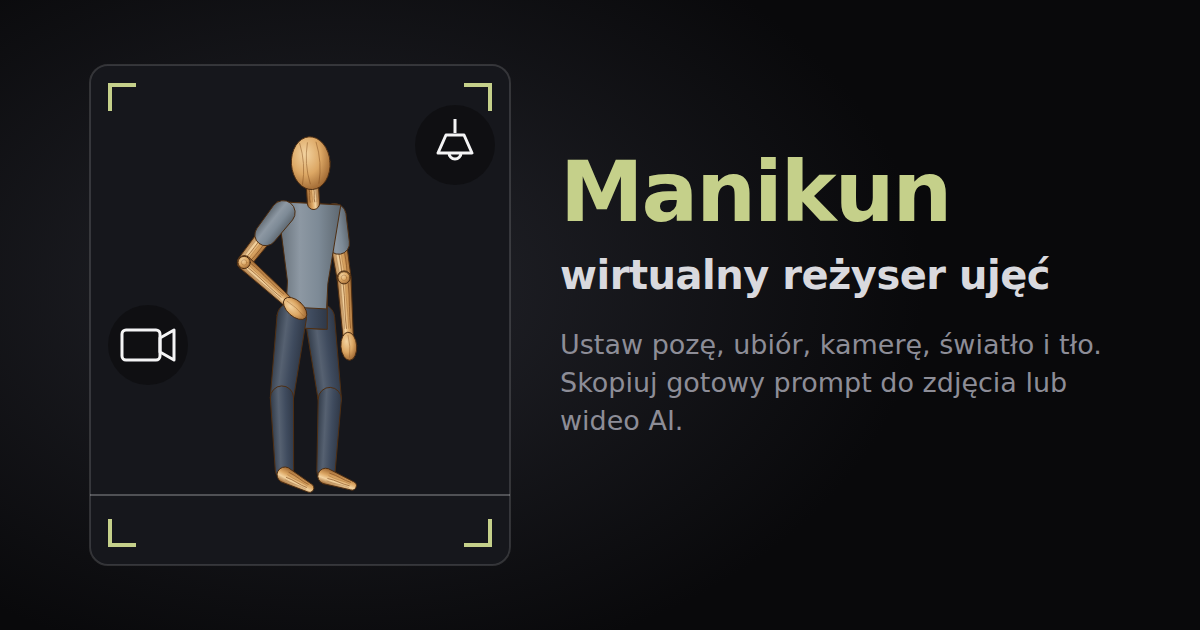
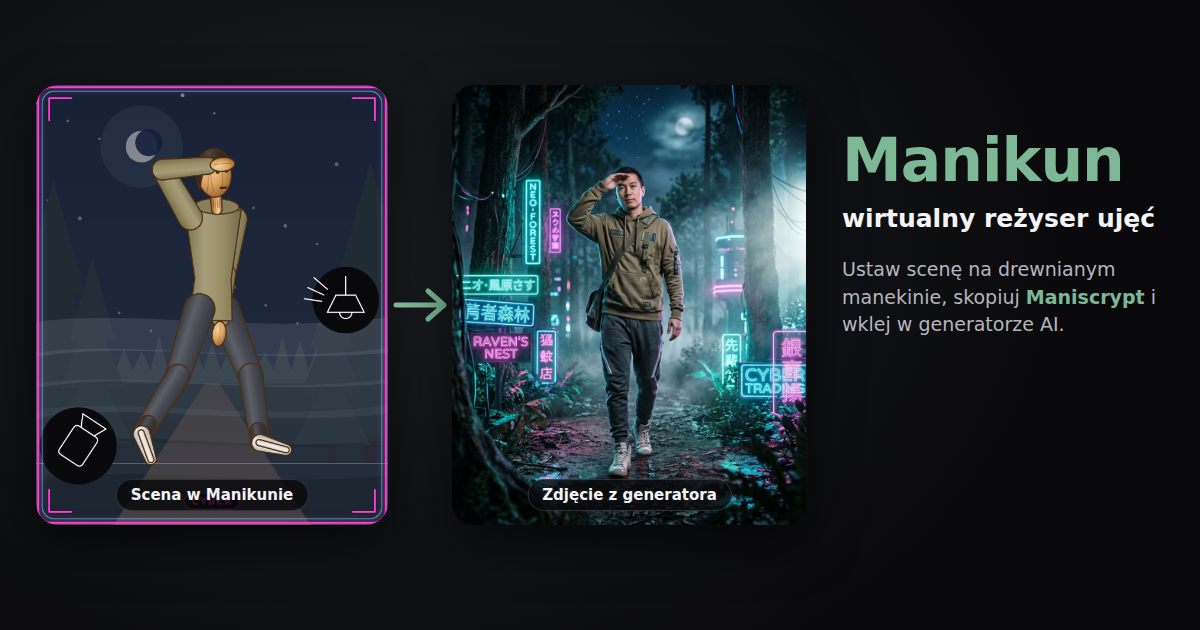
Link preview and hi-res tutorial photos
New og.png shows the Manikun scene next to the generated photo and names
Maniscrypt; meta descriptions no longer talk about a prompt. Tutorial
photos replaced with 928x1152 versions.

Claude-Session: https://claude.ai/code/session_01CU2PNdGbSAZCTwYLKbijoT

diff --git a/index.html b/index.html
@@ -5,20 +5,20 @@
 <meta name="theme-color" content="#09090B">
 <link rel="icon" type="image/svg+xml" href="logo.svg">
 <title>Manikun – wirtualny reżyser ujęć</title>
-<meta name="description" content="Ustaw scenę na drewnianym manekinie: pozę, ubiór, kamerę, światło i tło. Manikun zamieni ją w gotowy prompt do generatora zdjęć i wideo AI. Ponad miliard kombinacji ujęć.">
+<meta name="description" content="Ustaw scenę na drewnianym manekinie: pozę, ubiór, rzeczy, kamerę, światło i tło. Manikun napisze z niej Maniscrypt – gotowy opis ujęcia dla generatora zdjęć i wideo AI.">
 <meta property="og:type" content="website">
 <meta property="og:url" content="https://manikun.vercel.app/">
 <meta property="og:site_name" content="Manikun">
 <meta property="og:locale" content="pl_PL">
 <meta property="og:title" content="Manikun – wirtualny reżyser ujęć">
-<meta property="og:description" content="Ustaw scenę na drewnianym manekinie: pozę, ubiór, kamerę, światło i tło. Manikun zamieni ją w gotowy prompt do generatora zdjęć i wideo AI. Ponad miliard kombinacji ujęć.">
+<meta property="og:description" content="Ustaw scenę na drewnianym manekinie: pozę, ubiór, rzeczy, kamerę, światło i tło. Manikun napisze z niej Maniscrypt – gotowy opis ujęcia dla generatora zdjęć i wideo AI.">
 <meta property="og:image" content="https://manikun.vercel.app/og.png">
 <meta property="og:image:width" content="1200">
 <meta property="og:image:height" content="630">
-<meta property="og:image:alt" content="Drewniany manekin Manikun w kadrze z kamerą i lampą">
+<meta property="og:image:alt" content="Scena ustawiona na Manikunie obok zdjęcia wygenerowanego z jej Maniscryptu">
 <meta name="twitter:card" content="summary_large_image">
 <meta name="twitter:title" content="Manikun – wirtualny reżyser ujęć">
-<meta name="twitter:description" content="Ustaw scenę na manekinie i skopiuj gotowy prompt do generatora zdjęć i wideo AI.">
+<meta name="twitter:description" content="Ustaw scenę na manekinie, skopiuj Maniscrypt i wklej w generatorze zdjęć i wideo AI.">
 <meta name="twitter:image" content="https://manikun.vercel.app/og.png">
 <link rel="preconnect" href="https://fonts.googleapis.com">
 <link rel="preconnect" href="https://fonts.gstatic.com" crossorigin>
